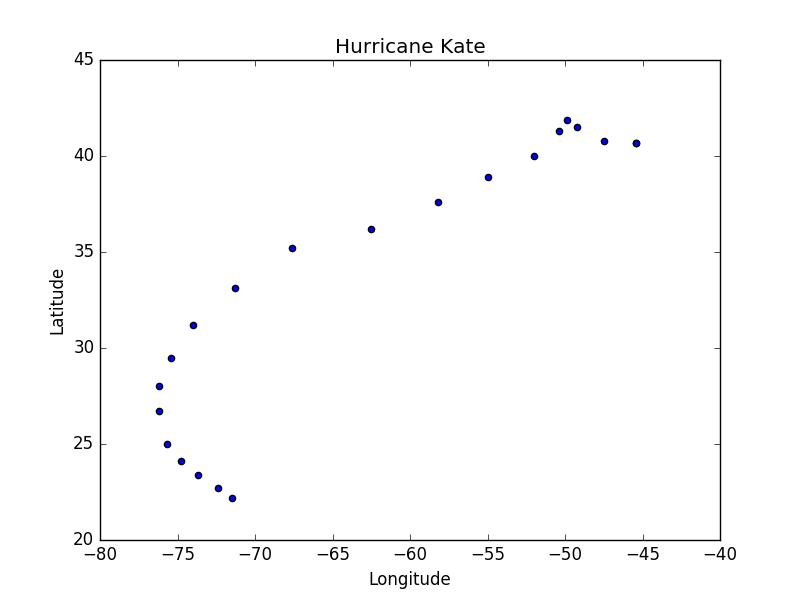
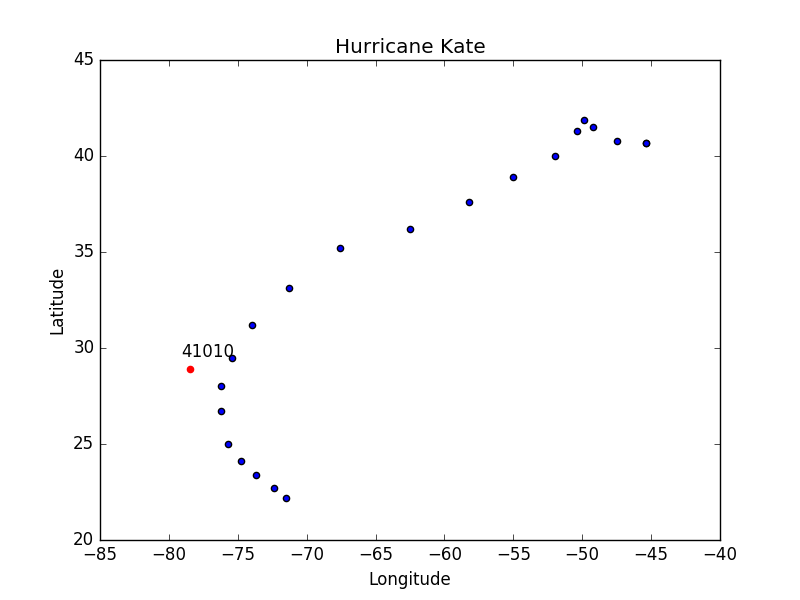
updates hurricane code w/ buoy

diff --git a/tools/process_hurricane_data.py b/tools/process_hurricane_data.py
@@ -3,6 +3,7 @@ import os
 import pandas as pd
 import matplotlib.pyplot as plt
 
+import flatten_json as fj
 
 def time_convert(military_time):
     military_time = str(military_time)
@@ -42,14 +43,25 @@ def process_df(df_in):
 
 
 if __name__ == '__main__':
+    buoy_file = os.path.join(os.pardir, 'data', '41010.json')
+    df_buoy = pd.DataFrame(fj.main(buoy_file))
+
     filename = os.path.join(os.pardir, 'data', 'hurricane_kate.csv')
     df = pd.read_csv(filename)
     df = process_df(df)
 
-    plt.scatter(-df['longitude'].values, df['latitude'])
-    plt.xlabel('Longitude')
-    plt.ylabel('Latitude')
-    plt.title('Hurricane Kate')
+    fig = plt.figure()
+    ax = fig.add_subplot(111)
+    ax.scatter(-df['longitude'].values, df['latitude'])
+    ax.set_xlabel('Longitude')
+    ax.set_ylabel('Latitude')
+    ax.set_title('Hurricane Kate')
+
+    buoy_lon = df_buoy.iloc[0]['longitude']
+    buoy_lat = df_buoy.iloc[0]['latitude']
+    ax.scatter(buoy_lon, buoy_lat, color='r')
+
+    ax.annotate('41010', (buoy_lon-0.6, buoy_lat+0.6))
 
     savefile = os.path.join(os.pardir, 'images', 'hurricane_kate.png')
     plt.savefig(savefile)

diff --git a/tools/flatten_json.py b/tools/flatten_json.py
@@ -17,6 +17,6 @@ def main(filename):
     ]
 
 if __name__ == '__main__':
-    x = main("../../41008.json")
+    x = main("../data/41010.json")
     pd = DataFrame(x)
     print(pd.head())
